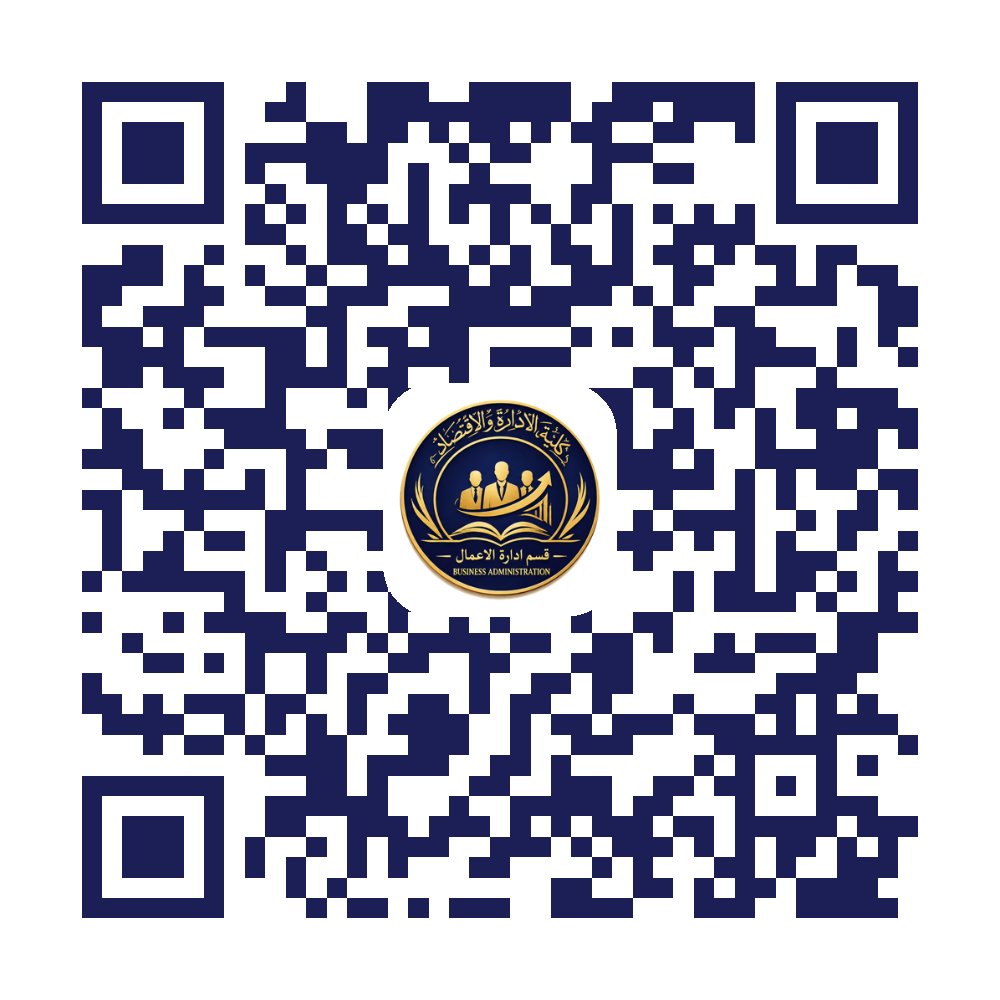
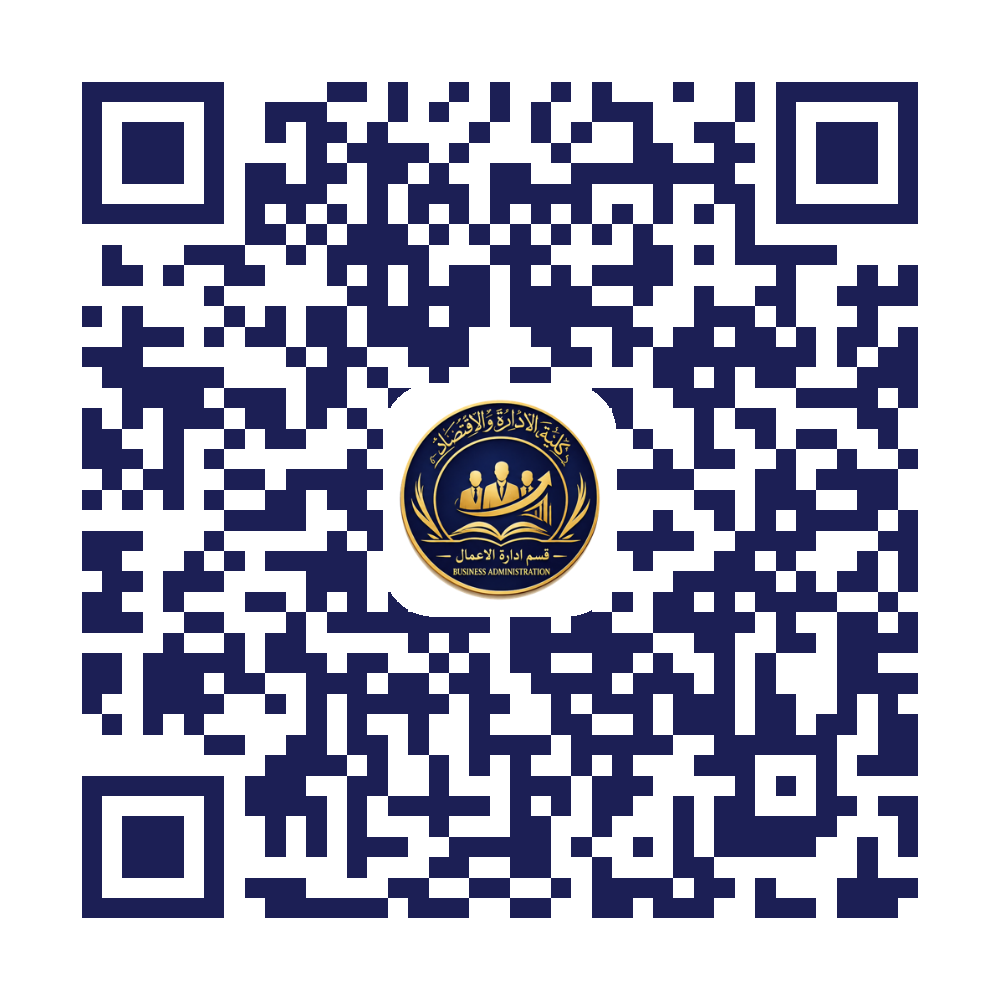
Point links and QR codes at the ECON93 repository name
The repository is being renamed from Notch to ECON93, which moves the
GitHub Pages site to https://zaidbavarian93-collab.github.io/ECON93/.
Regenerate every department and hall QR code and the README links for
the new address.

Claude-Session: https://claude.ai/code/session_01N1V7KpXS1YBAZJD5YByCEA

Changed region(s): [[0.062, 0.062, 0.93, 0.93]]

diff --git a/README.md b/README.md
@@ -3,15 +3,15 @@
 صفحة تعريفية تفاعلية لطلبة الكلية: الأقسام الأربعة، وقاعاتها الدراسية، وفرص العمل، واختبار قصير لكل قسم.
 
 الصفحة منشورة على GitHub Pages من هذا الفرع (`gh-pages`):
-https://zaidbavarian93-collab.github.io/Notch/
+https://zaidbavarian93-collab.github.io/ECON93/
 
 ## روابط الأقسام
 | القسم | الرابط | رمز QR |
 |---|---|---|
-| إدارة الأعمال | https://zaidbavarian93-collab.github.io/Notch/#ba | `qr/ba.png` |
-| المحاسبة | https://zaidbavarian93-collab.github.io/Notch/#acc | `qr/acc.png` |
-| العلوم المالية والمصرفية | https://zaidbavarian93-collab.github.io/Notch/#sfb | `qr/sfb.png` |
-| اقتصاديات النفط والغاز | https://zaidbavarian93-collab.github.io/Notch/#og | `qr/og.png` |
+| إدارة الأعمال | https://zaidbavarian93-collab.github.io/ECON93/#ba | `qr/ba.png` |
+| المحاسبة | https://zaidbavarian93-collab.github.io/ECON93/#acc | `qr/acc.png` |
+| العلوم المالية والمصرفية | https://zaidbavarian93-collab.github.io/ECON93/#sfb | `qr/sfb.png` |
+| اقتصاديات النفط والغاز | https://zaidbavarian93-collab.github.io/ECON93/#og | `qr/og.png` |
 
 ## روابط القاعات
 كل قاعة تُفتح برمزها بعد علامة `#`، مثل `#ba01` و`#acc02` و`#sfb03` و`#og01`،
